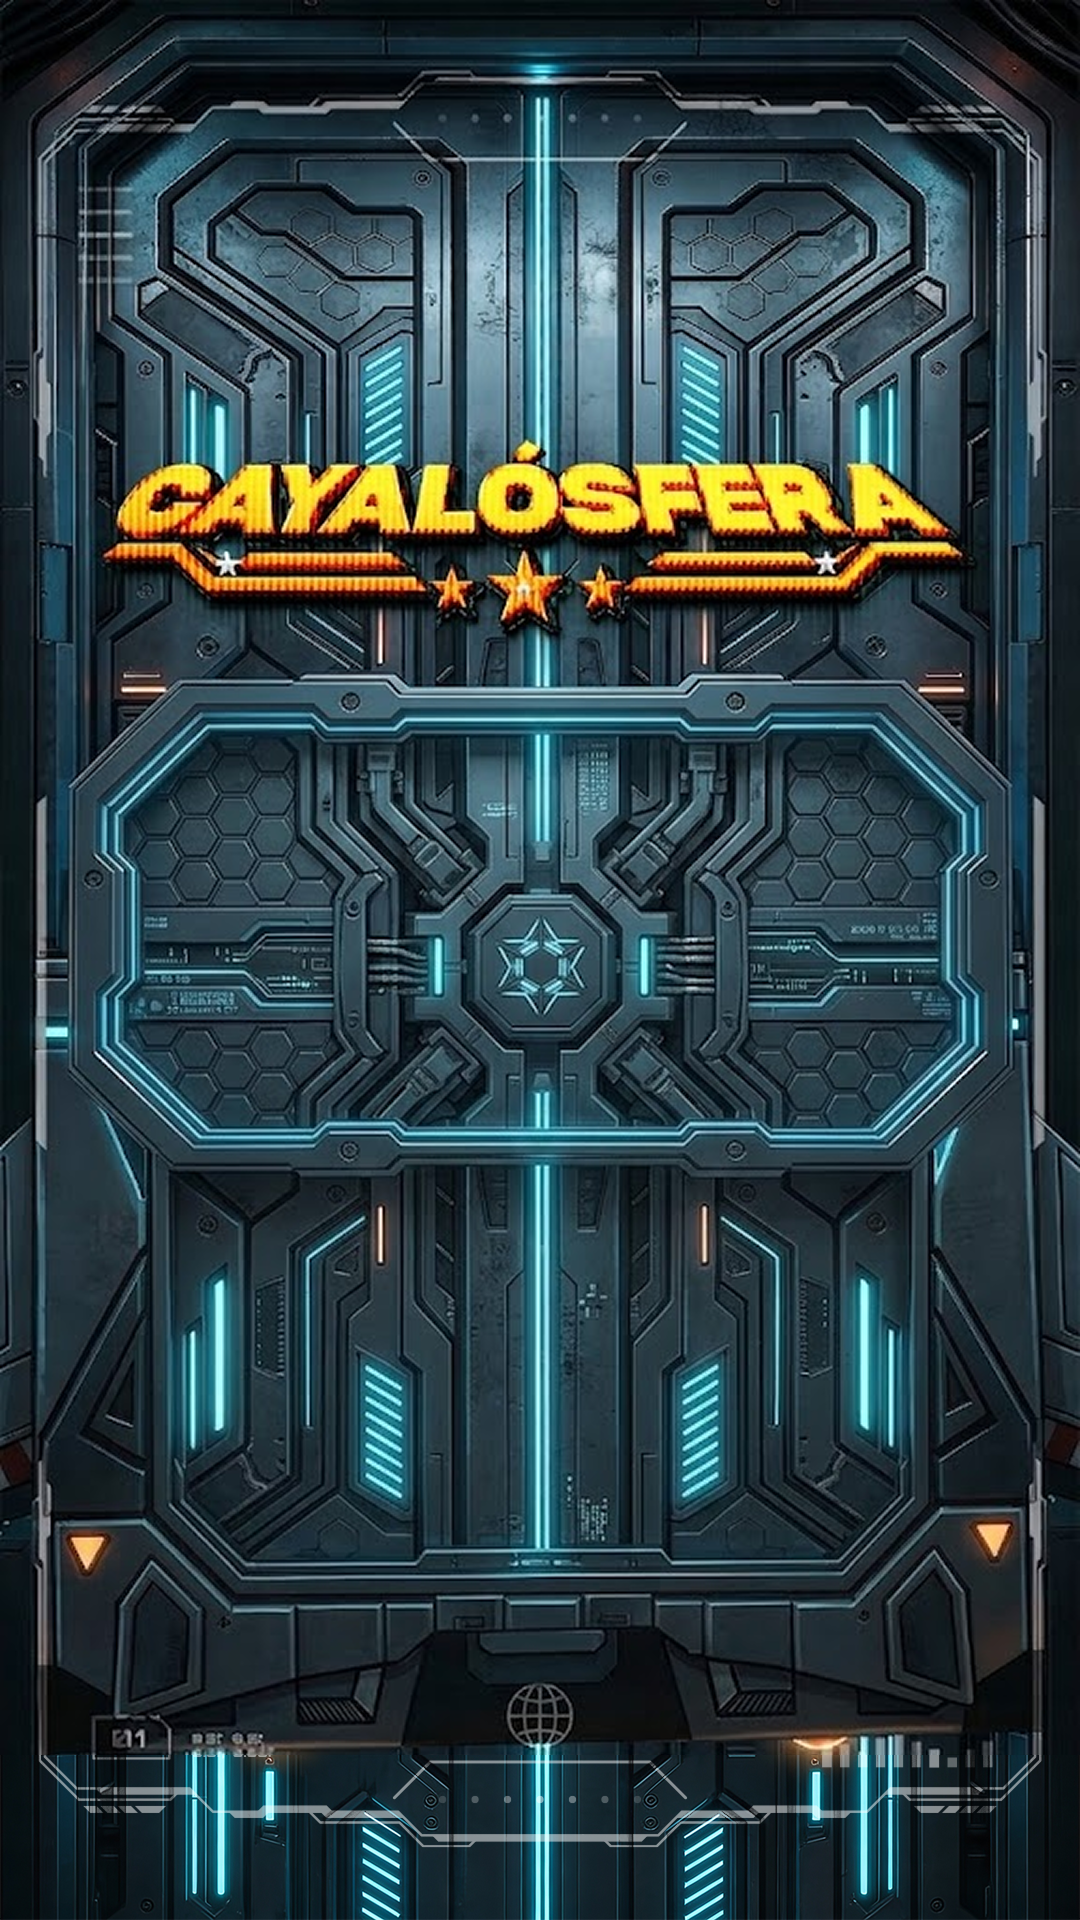
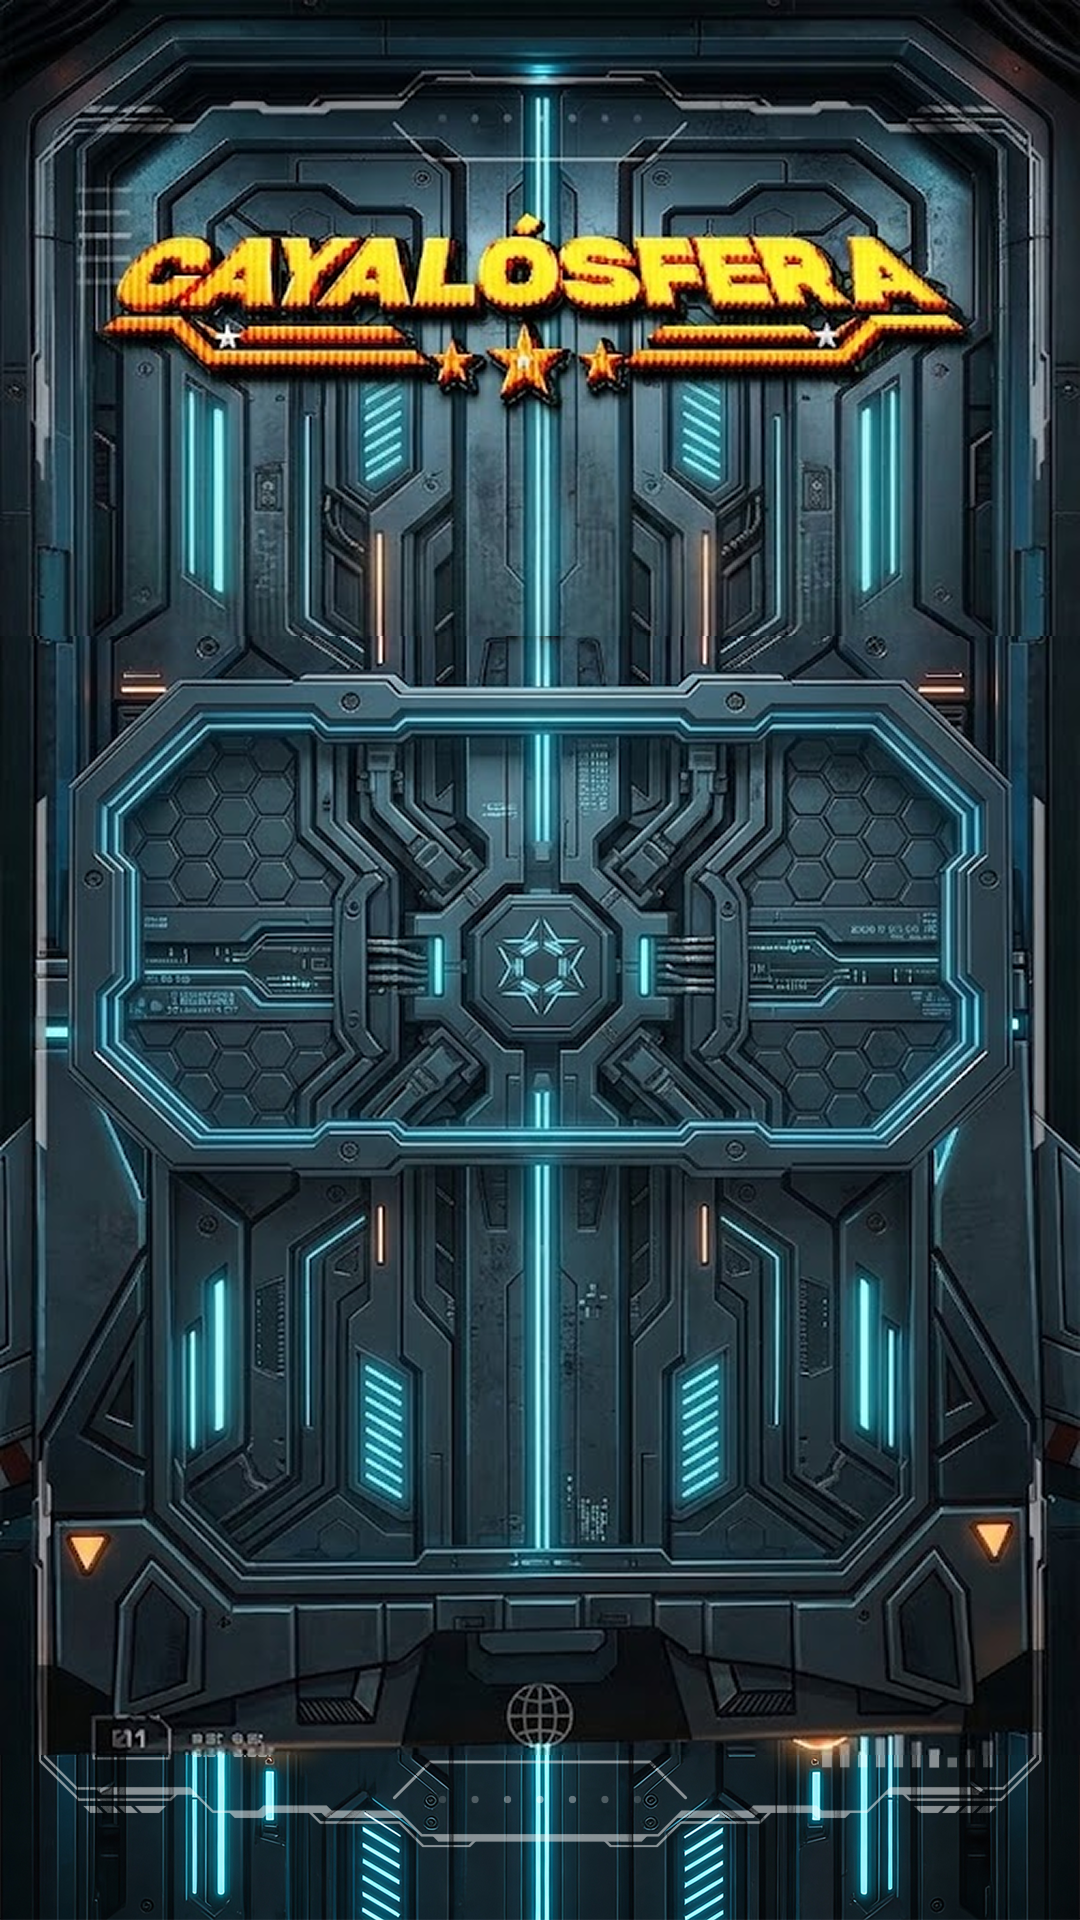
added: files pdf and added: inputs

Changed region(s): [[0.0, 0.0625, 1.0, 0.3438]]

diff --git a/Cayalosfera/src/components/Overlay.jsx b/Cayalosfera/src/components/Overlay.jsx
@@ -13,10 +13,11 @@ export default function UIOverlay() {
   const { user, handleRegister, foundDinos, handleLogout } = useGame();
 
   // Local form state
-  const [formData, setFormData] = useState({ nombre: '', correo: '', telefono: '' });
+  const [formData, setFormData] = useState({ nombre: '', correo: '', telefono: '', kids:"", adults:"" });
   const [showProgress, setShowProgress] = useState(false);
   const [Introduced, isIntroduced] = useState(true);
 
+  
 
   
 
@@ -48,20 +49,21 @@ export default function UIOverlay() {
       {Introduced ? (
           <div className={`overlay-container ${!Introduced ? 'hidden' : ''}`}>
 
-            <div style={{ marginTop:"40dvh", backgroundColor: "transparent", width: "100%", height: "65%", display: 'flex', flexDirection: 'column', alignItems: 'center', justifyContent: 'flex-start' }}>
+            <div style={{ marginTop:"26dvh", backgroundColor: "transparent", width: "100%", height: "65%", display: 'flex', flexDirection: 'column', alignItems: 'center', justifyContent: 'flex-start' }}>
 
-              <form onSubmit={onSubmit} className='formulario'>
+              <form onSubmit={onSubmit} className='formulario' style={{paddingTop:"4dvh"}}>
 
             
 
                 <div
                 className='masker'
                 style={{
-                    clipPath: "polygon(18% 0%, 80% 0%, 100% 0, 100% 82%, 82% 100%, 0 100%, 0% 80%, 0% 18%)"
+                    clipPath: "polygon(18% 0%, 80% 0%, 100% 0, 100% 82%, 82% 100%, 0 100%, 0% 80%, 0% 18%)",
                   }}
                 >
+                <div className="input-inner">
+                 <label className="fake-label">NOMBRE:</label>
                 <input
-                  placeholder="Nombre: "
                   className="input-field"
                   value={formData.nombre}
                   onChange={e => setFormData({ ...formData, nombre: e.target.value })}
@@ -71,6 +73,8 @@ export default function UIOverlay() {
                   }}
                 />
                 </div>
+                </div>
+
 
                  <div
                 className='masker'
@@ -79,8 +83,10 @@ export default function UIOverlay() {
                   }}
                 >
 
+                <div className="input-inner">
+                  <label className="fake-label">CORREO:</label>
+
                 <input
-                  placeholder="Correo: "
                   type="email"
                   className="input-field"
                   value={formData.correo}
@@ -91,29 +97,81 @@ export default function UIOverlay() {
                   }}
 
                 />
+                </div>
 
                 </div>
                 
-                <div
+                <div className='masker' style={{
+                  clipPath: "polygon(18% 0%, 80% 0%, 100% 0, 100% 82%, 82% 100%, 0 100%, 0% 80%, 0% 18%)"
+                }}>
+                  <div className="input-inner">
+                    <label className="fake-label">TELÉFONO:</label>
+                    <input
+                      type="tel"
+                      className="input-field"
+                      value={formData.telefono}
+                      onChange={e => setFormData({ ...formData, telefono: e.target.value })}
+                      required
+                    />
+                  </div>
+                </div>
+
+
+                
+                 <div
                 className='masker'
                 style={{
-                     clipPath: "polygon(18% 0%, 80% 0%, 100% 0, 100% 82%, 82% 100%, 0 100%, 0% 80%, 0% 18%)"
+                    clipPath: "polygon(0 0, 82% 0%, 100% 18%, 100% 80%, 100% 100%, 18% 100%, 0% 82%, 0% 18%)"
                   }}
                 >
 
+                  <div className="input-inner">
+                    <label className="fake-label">¿CUÁNTOS NIÑOS NOS ACOMPAÑAN?</label>
+
                 <input
-                  placeholder="Teléfono: "
-                  type="tel"
+                  type="number"
                   className="input-field"
-                  value={formData.telefono}
-                  onChange={e => setFormData({ ...formData, telefono: e.target.value })}
+                  value={formData.kids}
+                  onChange={e => setFormData({ ...formData, kids: e.target.value })}
                   required
-                  style={{
-                    clipPath: "polygon(20% 0%, 80% 0%, 100% 0, 100% 80%, 80% 100%, 0 100%, 0% 80%, 0% 20%)"
+                style={{
+                    clipPath: "polygon(0 0, 80% 0%, 100% 20%, 100% 80%, 100% 100%, 20% 100%, 0% 80%, 0% 20%)"
                   }}
+
                 />
 
                 </div>
+                </div>
+
+
+                
+                 <div
+                className='masker'
+                style={{
+                     clipPath: "polygon(18% 0%, 80% 0%, 100% 0, 100% 82%, 82% 100%, 0 100%, 0% 80%, 0% 18%)"
+
+                  }}
+                >
+
+                <div className="input-inner">
+                  <label className="fake-label">¿CUÁNTOS ADULTOS NOS ACOMPAÑAN?</label>
+
+
+                <input
+                  type="number"
+                  className="input-field"
+                  value={formData.adults}
+                  onChange={e => setFormData({ ...formData, adults: e.target.value })}
+                  required
+                style={{
+                      clipPath: "polygon(18% 0%, 80% 0%, 100% 0, 100% 82%, 82% 100%, 0 100%, 0% 80%, 0% 18%)"
+
+                  }}
+
+                />
+                </div>
+                </div>
+
 
                 <div className='jugar-wrapper'>
                 <button className='jugar' type="submit">Aceptar</button>
@@ -224,7 +282,7 @@ export default function UIOverlay() {
 
 
           <div style={{ backgroundSize: 'cover', padding: 20, borderRadius: "10px", paddingBottom: "15%" }}>
-            <h2 className='titlecoleccion'><span style={{fontFamily:"Rowdies",color:"#FFCC00"}} ></span>mis planetas<span style={{fontFamily:"Cygun", color:"#FFCC00"}} ></span></h2>
+            <h2 className='titlecoleccion'><span style={{fontFamily:"Cybun", fontWeight:200,color:"#FFCC00"}} ></span>mis planetas<span style={{fontFamily:"Cygun", color:"#FFCC00"}} ></span></h2>
 
             
             <div style={{ 

diff --git a/Cayalosfera/src/components/css/overlay.css b/Cayalosfera/src/components/css/overlay.css
@@ -86,48 +86,71 @@ input-field:focus {
   outline: none;
 }
 
+.input-inner {
+  display: flex;
+  flex-direction: row;
+  align-items: center;
+  background: white;
+  height: 100%;
+  width: 100%;
+  padding: 0 12px;
+  box-sizing: border-box;
+  gap: 8px;
+}
 
+.fake-label {
+  font-weight: bold;
+  color: #008dc2;
+  white-space: nowrap;
+  flex-shrink: 0;
+}
+
+.input-field {
+  font-family: "Mont", "Franklin Gothic Medium", "Arial Narrow", Arial, sans-serif;
+  color: #008dc2;
+  background: white;
+  font-size: 0.95rem;
+  border: none;
+  border-left: 0.5px solid #008dc2;
+  outline: none;
+  padding-left: 8px;
+  width: 100%;
+  box-sizing: border-box;
+}
+
+/* Mobile */
 @media (max-width: 1024px) {
-
-  .masker{
+  .masker {
     background-color: #008dc2;
-    height: 6.2dvh;
-    padding: 1px;
+    height: 6dvh;
+    padding:2px;
     width: 70%;
+  }
 
+  .input-inner {
+    flex-direction: column;
+    justify-content: center;
+    align-items: flex-start;
+    padding: 4px 10px;
+    gap: 0;
+  }
+
+  .fake-label {
+    line-height: 1;
   }
 
   .input-field {
-    font-family: "Mont", "Franklin Gothic Medium", "Arial Narrow", Arial,
-      sans-serif;
-    height: 90%;
-    width: 97.5%;
-    text-align: center;
-  
-
-    color: #008dc2;
-    background-color: #FFFFFF;
-    
-    
-    font-size: 1rem;
-    border-color: #008dc2;
-    border: 0.02rem solid #008dc2;
-    outline: none;
-
-  }
-
-  .input-field::placeholder {
-    font-family: "Mont", "Franklin Gothic Medium", "Arial Narrow", Arial,
-      sans-serif;
-    font-weight: bold;
-    font-size: 0.6rem;
-    left: 5%;
-    top: 20%;
-    position: absolute;
-    color: #008dc2;
-;
+    height: auto;
+    width: 100%;
+    text-align: left;
+    font-size: 0.85rem;
+    border: none;
+    padding: 0;
+    margin-top: 4px;
+    line-height: 1;
   }
 }
+
 
 @media (min-width: 1025px) {
 
@@ -140,18 +163,17 @@ input-field:focus {
   }
 
   .input-field {
-    height: 4.4dvh;
-
-    color: white;
-
-    background-color: #0c8323;
-    text-align: center;
-    font-size: 0.6rem;
-
-
-    border-radius: 10px;
-    border: 6px solid white;
+    height: auto;
+    width: 100%;
+    text-align: left;
+    font-size: 0.85rem;
+    border: none;
+    padding: 0;
+    margin-top: 4px;
+    line-height: 1;
   }
+
+
   .input-field::placeholder {
     font-family: "Cygun", "Franklin Gothic Medium", "Arial Narrow", Arial,
       sans-serif;
@@ -330,6 +352,7 @@ input-field:focus {
 
 /* The backdrop/overlay */
 .my-swal-container {
+  font-family: "Cygun";
   backdrop-filter: blur(5px);
 }
 
@@ -494,4 +517,12 @@ input-field:focus {
   .intro-button {
     bottom: 25%;
   }
+}
+
+.fake-label {
+  position: relative;
+  background: white;
+  padding: 0 4px;
+  z-index: 2;
+  font-size: 0.5rem;
 }

diff --git a/Cayalosfera/src/components/Gamecontext.jsx b/Cayalosfera/src/components/Gamecontext.jsx
@@ -58,7 +58,7 @@ export const GameProvider = ({ children }) => {
         localStorage.setItem('dataId', data.usuario._id);
         setUser(data.usuario);
          Swal.fire({
-          title: '<span style="color: #FFCD00">¡</span>ÉXITO<span style="color: #FFCD00">!</span>',
+          title: '<span style="color: #ffffff">¡</span>ÉXITO<span style="color: #ffffff">!</span>',
           icon:'success',
           confirmButtonText: 'Usuario registrado',
           customClass: {
@@ -70,7 +70,7 @@ export const GameProvider = ({ children }) => {
         });
       } else {
          Swal.fire({
-          title: '<span style="color: #FFCD00">¡</span>Ha occurrido un error<span style="color: #FFCD00">!</span>',
+          title: '<span style="color: #ffffff">¡</span>Ha occurrido un error<span style="color: #ffffff">!</span>',
           icon:'error',
           confirmButtonText: error.message,
           customClass: {
@@ -83,7 +83,7 @@ export const GameProvider = ({ children }) => {
       }
     } catch (error) {
        Swal.fire({
-          title: '<span style="color: #FFCD00">¡</span>Número de Teléfono No válido<span style="color: #FFCD00">!</span>',
+          title: '<span style="color: #ffffff">¡</span>Error Vuelva a Intentarlo<span style="color: #ffffff">!</span>',
           icon:'error',
           confirmButtonText: "Regresar",
           customClass: {
@@ -139,7 +139,11 @@ export const GameProvider = ({ children }) => {
             container: 'my-swal-container',
             popup: 'swal-custom-popupgifs',
             confirmButton: 'my-swal-buttongifs',
-          }
+          }.then((result) => {
+              if (result.isConfirmed) {
+                window.open('/files/prueba_pdf.pdf', '_blank');
+              }
+            })
         
           });
       }, 4000);
